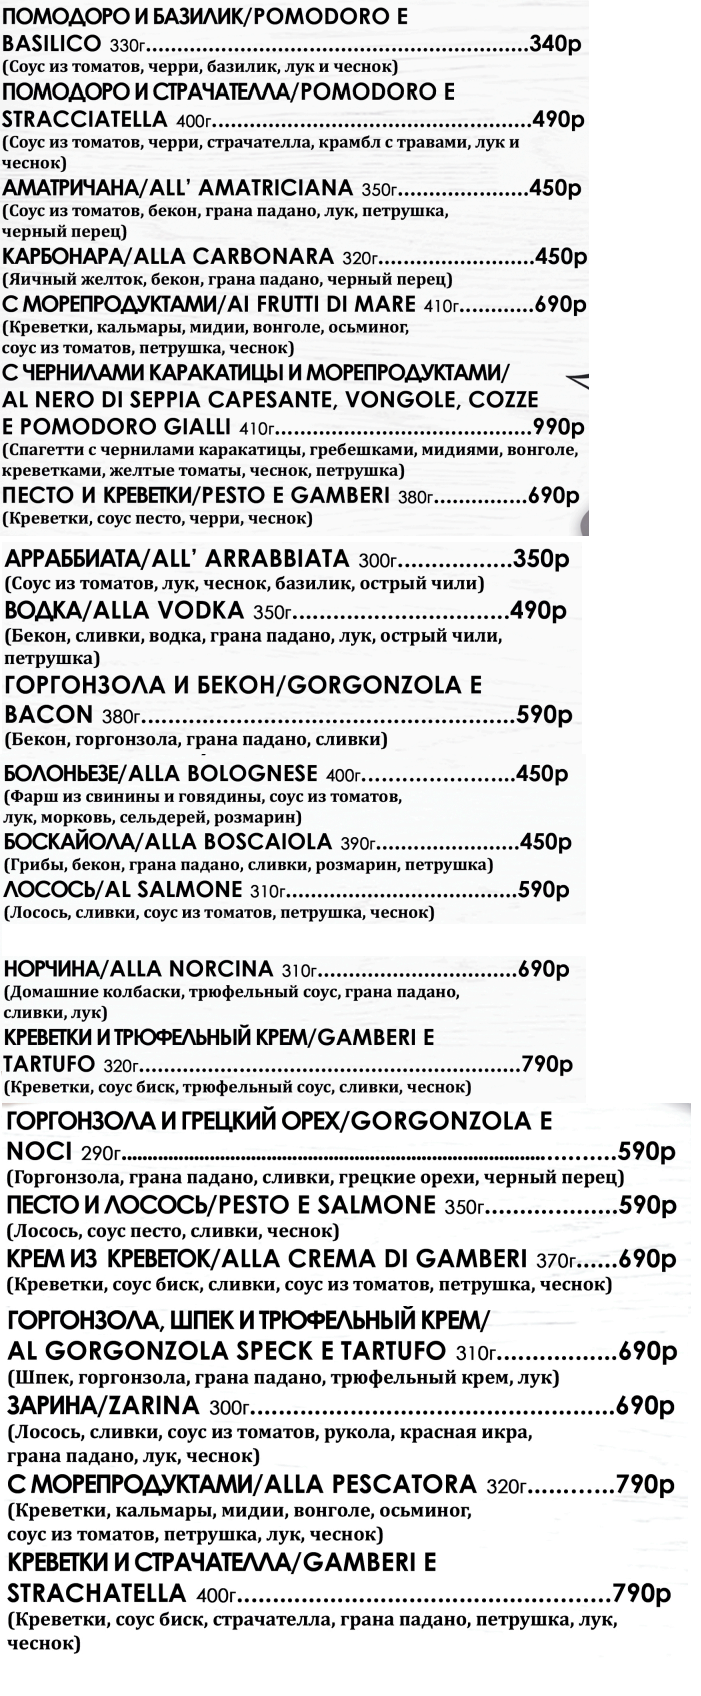
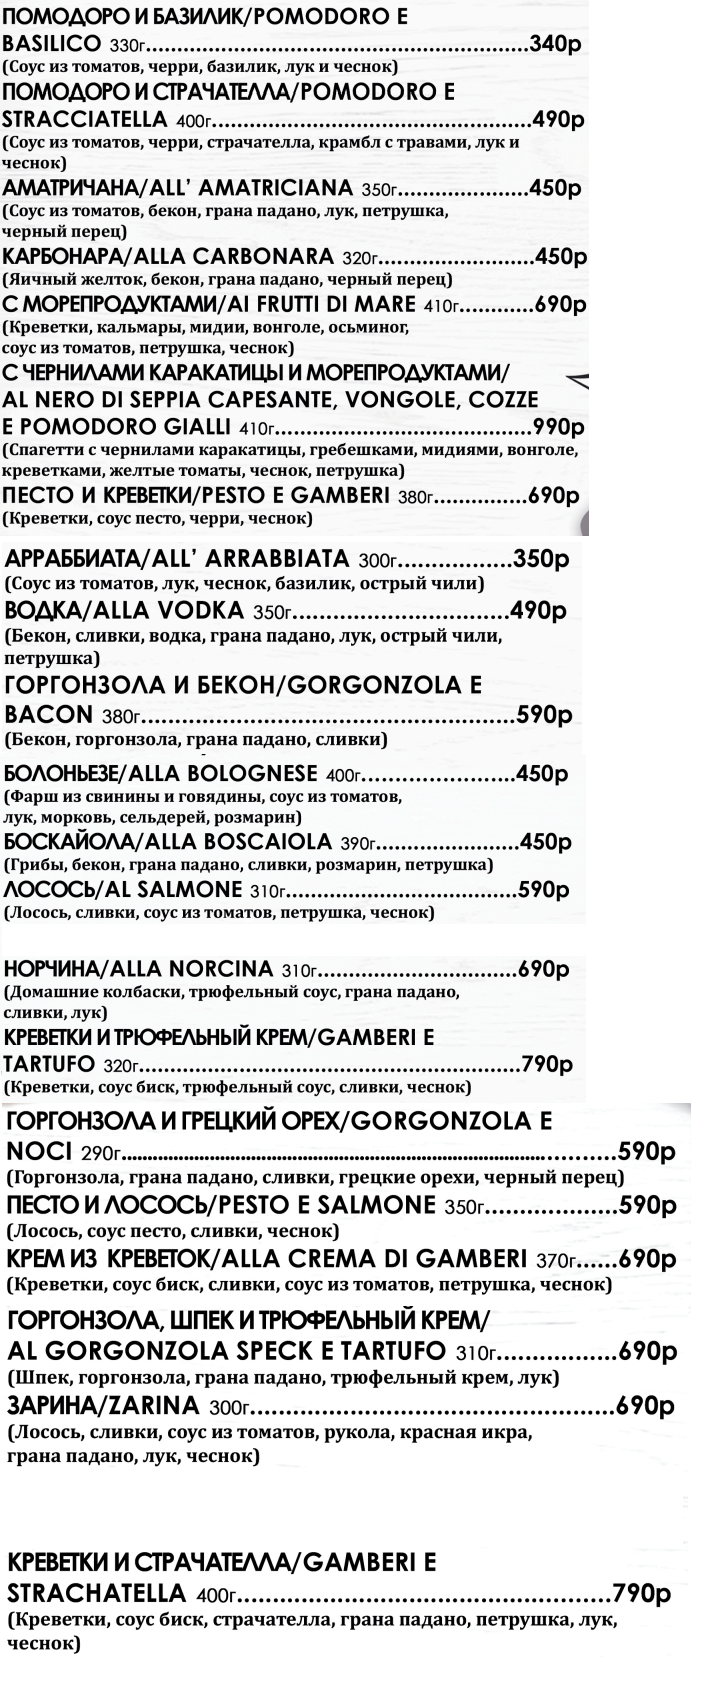
add component with fuctions to insert data to DB; delete dublicate pasta in the picture;

diff --git a/main.py b/main.py
@@ -1,14 +1,36 @@
+import numpy as np
 import components.gettingPictureText as picText
-import  components.mysqlConnector as mysql
+import components.mysqlConnector as mysql
+import components.DBwriting as dbw
 
 # Open
 c = mysql.Connect()
-select_movies_query = "SELECT * FROM ingredient"
+
+# dbw.pullPastas(c, picText.titles)
+
+# Making array of distinct ingredients
+
+distIngr = []
+for arr in picText.ingridients:
+    for i in arr:
+        distIngr.append(i)
+
+distIngr = set(distIngr)
+
+dbw.pullIngridients(c, distIngr)
+
+print(distIngr)
+
+
+queryText = "SELECT * FROM ingredient"
 with c.cursor() as cursor:
-    cursor.execute(select_movies_query)
+    cursor.execute(queryText)
     result = cursor.fetchall()
     for row in result:
            print(row)
+
+# Commit inserting
+c.commit()
 
 # And close
 mysql.Disconnect(c)

diff --git a/components/DBwriting.py b/components/DBwriting.py
@@ -1,0 +1,15 @@
+def pullPastas(connect, titles):
+    with connect.cursor() as cursor:
+        for title in titles:
+            sql = "INSERT INTO pasta (pasta_name) VALUES ('{}')".format(title)
+            cursor.execute(sql)
+
+def pullIngridients(connect, distinctIngridients):
+    with connect.cursor() as cursor:
+        for ingr in distinctIngridients:
+            sql = "INSERT INTO ingredient (ingr_name) VALUES ('{}')".format(ingr)
+            cursor.execute(sql)
+
+def pullRecipies(connect, titles, ingredients):
+    print('something')
+    # TODO: make this
